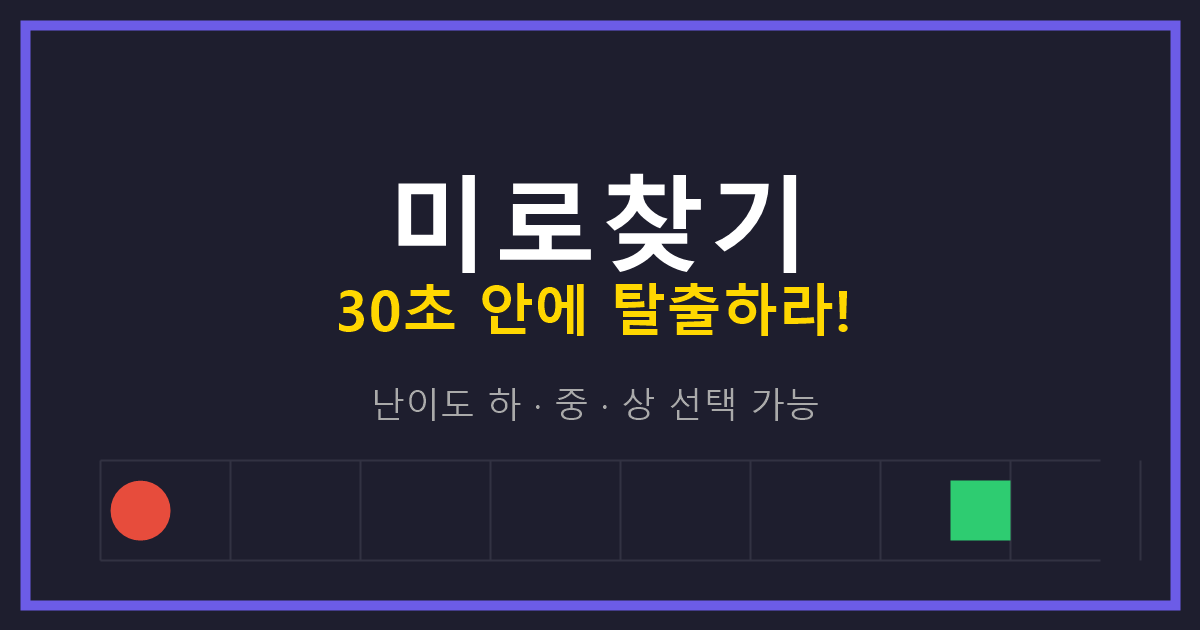
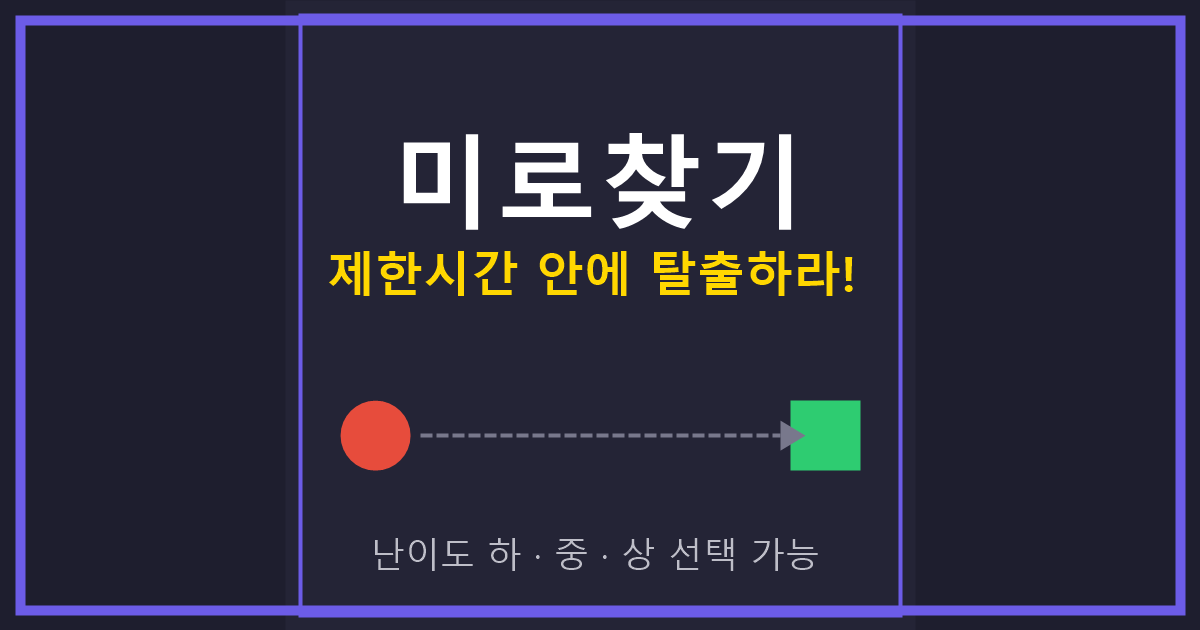
Replace player dot with running stick figure, resize Kakao thumbnail to safe center-crop layout

diff --git a/maze.html b/maze.html
@@ -166,6 +166,8 @@ const LEVELS = {
 let level = 'normal';
 let size, cell, grid, player, goal;
 let startTime, timeLimit, rafId, running;
+let facing = 1;   // 1: 오른쪽 보기, -1: 왼쪽 보기
+let runStep = 0;  // 달리기 동작 좌우 다리 전환용
 
 function makeGrid(n) {
   const g = [];
@@ -225,10 +227,60 @@ function draw() {
   ctx.fillStyle = '#2ecc71';
   ctx.fillRect(goal.x * cell + pad, goal.y * cell + pad, cell - pad * 2, cell - pad * 2);
 
+  drawRunner();
+}
+
+// 달리는 사람(졸라맨) 모양의 플레이어. runFrame으로 달리기 동작을 표현하고
+// facing으로 이동 방향에 맞춰 좌우 반전한다.
+function drawRunner() {
+  const cx = player.x * cell + cell / 2;
+  const cy = player.y * cell + cell / 2;
+  const s = cell * 0.42;
+  const swing = (runStep === 0 ? 1 : -1) * s * 0.35;
+
+  ctx.save();
+  ctx.translate(cx, cy);
+  ctx.scale(facing, 1);
+  ctx.strokeStyle = '#e74c3c';
   ctx.fillStyle = '#e74c3c';
+  ctx.lineWidth = Math.max(2, cell * 0.1);
+  ctx.lineCap = 'round';
+  ctx.lineJoin = 'round';
+
+  // 머리
   ctx.beginPath();
-  ctx.arc(player.x * cell + cell / 2, player.y * cell + cell / 2, cell / 2 - pad, 0, Math.PI * 2);
+  ctx.arc(0, -s * 0.95, s * 0.26, 0, Math.PI * 2);
   ctx.fill();
+
+  // 몸통 (앞으로 살짝 기울임)
+  ctx.beginPath();
+  ctx.moveTo(0, -s * 0.65);
+  ctx.lineTo(s * 0.08, -s * 0.05);
+  ctx.stroke();
+
+  // 팔 (몸통 방향과 반대로 앞뒤로 흔들림)
+  ctx.beginPath();
+  ctx.moveTo(s * 0.04, -s * 0.45);
+  ctx.lineTo(-swing, -s * 0.15);
+  ctx.stroke();
+  ctx.beginPath();
+  ctx.moveTo(s * 0.04, -s * 0.45);
+  ctx.lineTo(swing, -s * 0.55);
+  ctx.stroke();
+
+  // 다리 (팔과 반대로 앞뒤로 스트라이드)
+  ctx.beginPath();
+  ctx.moveTo(s * 0.08, -s * 0.05);
+  ctx.lineTo(swing * 0.9, s * 0.2);
+  ctx.lineTo(swing * 1.3, s * 0.45);
+  ctx.stroke();
+  ctx.beginPath();
+  ctx.moveTo(s * 0.08, -s * 0.05);
+  ctx.lineTo(-swing * 0.9, s * 0.2);
+  ctx.lineTo(-swing * 1.3, s * 0.45);
+  ctx.stroke();
+
+  ctx.restore();
 }
 
 function tick() {
@@ -290,6 +342,8 @@ function newGame() {
   generateMaze(size);
   player = { x: 0, y: 0 };
   goal = { x: size - 1, y: size - 1 };
+  facing = 1;
+  runStep = 0;
   msg.textContent = '';
   running = true;
   startTime = Date.now();
@@ -311,6 +365,8 @@ function tryMove(dx, dy) {
 
   player.x += dx;
   player.y += dy;
+  if (dx !== 0) facing = dx > 0 ? 1 : -1;
+  runStep = 1 - runStep;
   draw();
 
   if (player.x === goal.x && player.y === goal.y) win();
